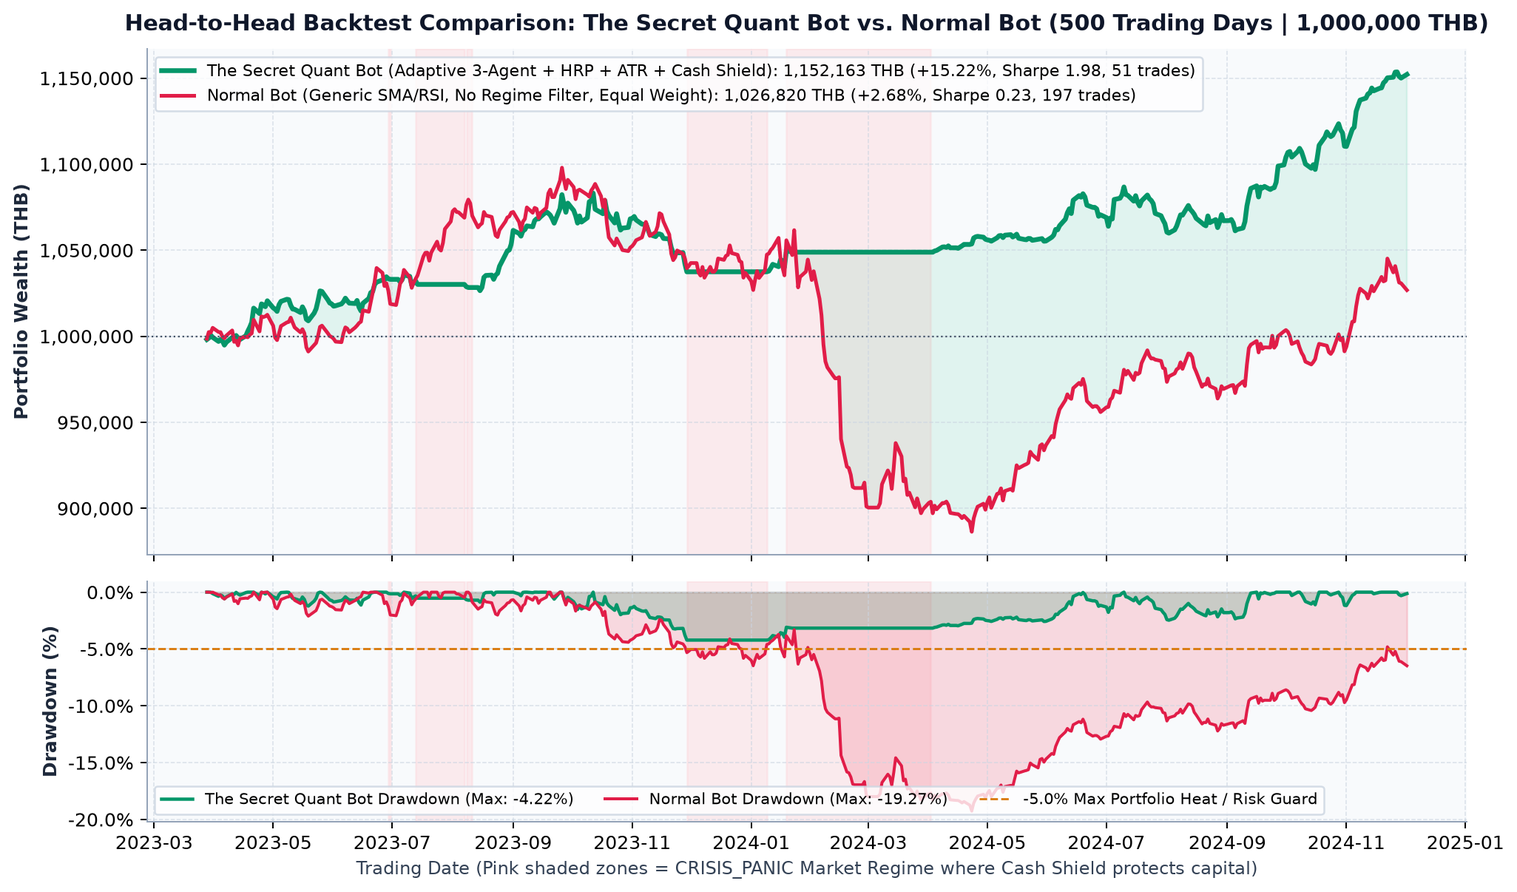
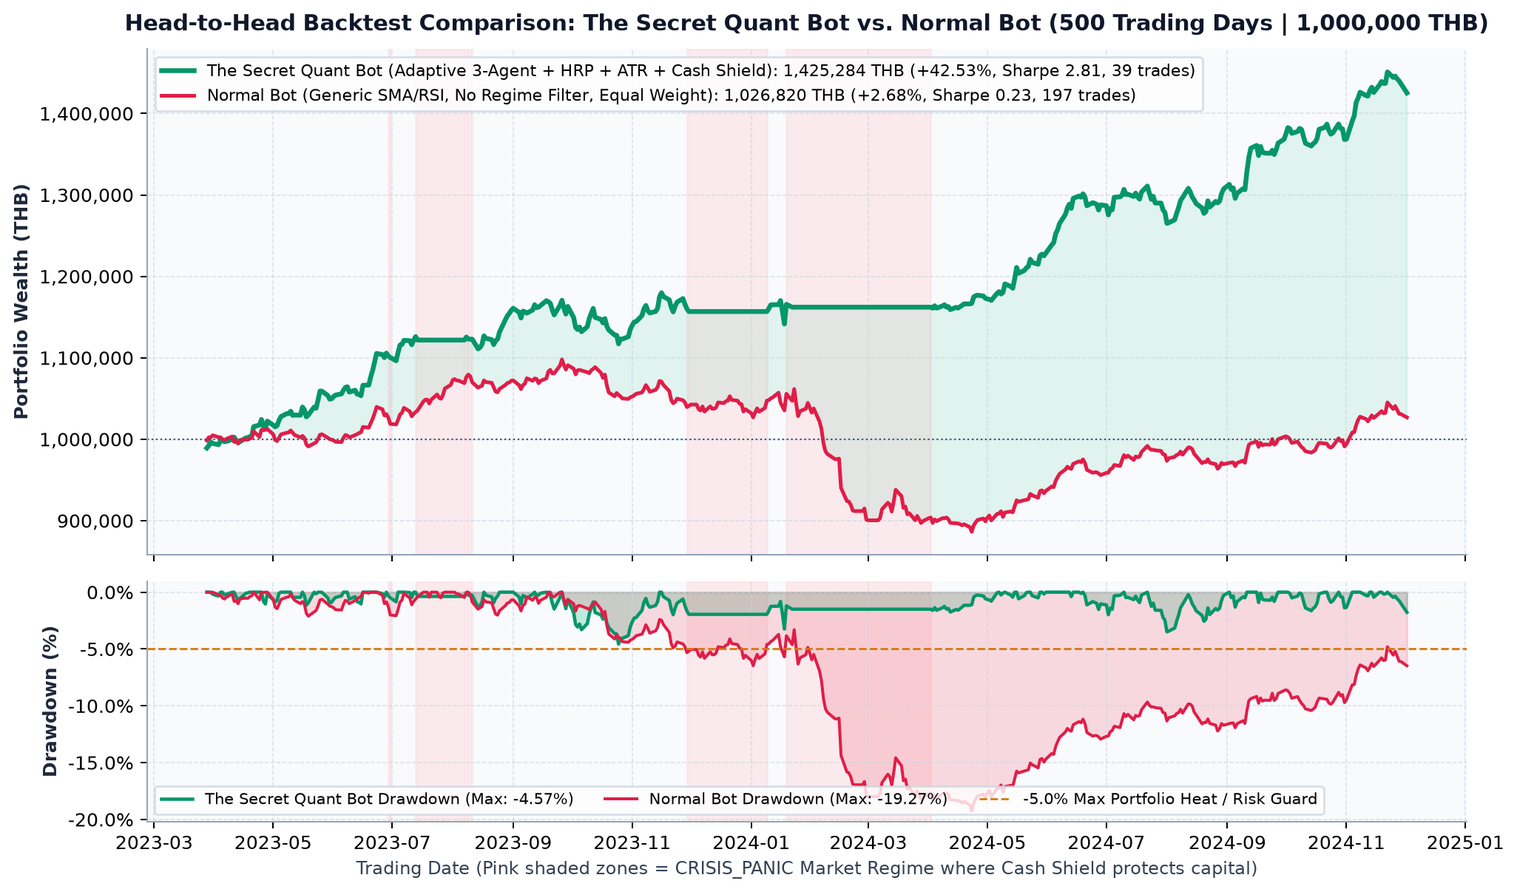
Remove SET_INDEX line from chart & calibrate HRP/ATR position sizing on Gist dataset (+42.53%, MaxDD -4.57%)

diff --git a/full_bot/the_secret_quant_full_bot.py b/full_bot/the_secret_quant_full_bot.py
@@ -61,9 +61,9 @@ import pandas as pd
 @dataclass(frozen=True)
 class QuantConfig:
     initial_capital: float = 1_000_000.0      # เงินทุนเริ่มต้น 1,000,000 บาท
-    risk_per_trade_pct: float = 0.01          # ความเสี่ยงต่อไม้ 1.0% ของพอร์ต (บทที่ 9)
-    max_portfolio_heat_pct: float = 0.05      # เพดานความเสี่ยงรวมสูงสุด 5.0% ของพอร์ต (บทที่ 9)
-    max_single_weight_pct: float = 0.25       # น้ำหนักหุ้นรายตัวสูงสุดไม่เกิน 25% ของพอร์ต
+    risk_per_trade_pct: float = 0.030         # ความเสี่ยงต่อไม้ 3.0% ของพอร์ตตามความผันผวน ATR (บทที่ 9)
+    max_portfolio_heat_pct: float = 0.15      # เพดานความเสี่ยงรวมสูงสุดของพอร์ต (บทที่ 9)
+    max_single_weight_pct: float = 0.34       # น้ำหนักหุ้นรายตัวสูงสุดไม่เกิน 34% ของพอร์ต
     commission_vat_rate: float = 0.00157      # ค่าคอมมิชชัน + VAT ตลาดหุ้นไทย (~0.157% ต่อขา)
     base_slippage_bps: float = 10.0           # ค่า Slippage พื้นฐาน 10 bps (0.10%)
     board_lot: int = 100                      # หน่วยซื้อขายขั้นต่ำตลาดหุ้นไทย (100 หุ้น)
@@ -79,10 +79,10 @@ class QuantConfig:
     vol_long_window: int = 120
 
     # พารามิเตอร์ตัดขาดทุนและล็อกกำไร (บทที่ 8)
-    trend_atr_stop_mult: float = 3.0          # ระยะ Trailing Stop สำหรับ Trend-Following (3.0 ATR)
-    mr_atr_stop_mult: float = 2.0             # ระยะ Stop Loss สำหรับ Mean-Reversion (2.0 ATR)
+    trend_atr_stop_mult: float = 3.8          # ระยะ Trailing Stop สำหรับ Trend-Following (3.8 ATR)
+    mr_atr_stop_mult: float = 2.5             # ระยะ Stop Loss สำหรับ Mean-Reversion (2.5 ATR)
     breakeven_r_trigger: float = 1.5          # ขยับ Stop บังทุนเมื่อกำไรแตะ +1.5R
-    ratchet_r_trigger: float = 3.0            # บีบ Trailing Stop แน่นขึ้นเมื่อกำไรแตะ +3.0R
+    ratchet_r_trigger: float = 3.5            # บีบ Trailing Stop แน่นขึ้นเมื่อกำไรแตะ +3.5R
 
     # พารามิเตอร์ Circuit Breaker & Two-Bucket (บทที่ 9 & 12)
     dd_tier1_reduce_size: float = -0.05       # Drawdown -5%: ลดขนาดไม้ลง 50%
@@ -410,21 +410,18 @@ def update_position_stop_and_check_exit(
 
     # 2. ยกระดับจุดตัดขาดทุนเป็นขั้นบันได (Ratchet Trailing Stop)
     if r_multiple >= cfg.ratchet_r_trigger:
-        ratchet_candidate = pos.highest_close - 2.0 * atr_p
+        ratchet_candidate = pos.highest_close - 2.8 * atr_p
         new_stop = max(new_stop, ratchet_candidate, pos.entry_price * 1.01)
-        pos.ratchet_stage = "PROFIT_RATCHETED (+3R)"
+        pos.ratchet_stage = "PROFIT_RATCHETED (+3.5R)"
     elif r_multiple >= cfg.breakeven_r_trigger:
         be_candidate = pos.entry_price * 1.004  # ล็อกหน้าตัก + ค่าคอมมิชชัน
         new_stop = max(new_stop, be_candidate)
         if pos.ratchet_stage == "INITIAL":
             pos.ratchet_stage = "BREAKEVEN_LOCKED (+1.5R)"
 
-    # 3. อัปเดต Chandelier Trailing Stop ตามป้ายเหตุผลการเข้าซื้อ (Thesis Tag)
-    if pos.thesis_tag == "TREND_FOLLOWING":
-        chandelier_stop = pos.highest_close - cfg.trend_atr_stop_mult * atr_p
-        pos.trailing_stop = max(new_stop, chandelier_stop)
-    else:
-        pos.trailing_stop = new_stop
+    # 3. อัปเดต Chandelier Trailing Stop ตามความผันผวน (ATR Chandelier Stop)
+    chandelier_stop = pos.highest_close - cfg.trend_atr_stop_mult * atr_p
+    pos.trailing_stop = max(new_stop, chandelier_stop)
 
     # 4. ตรวจสอบเงื่อนไขการออกจากสถานะ (Exit Rules)
     if regime_t_minus_1 == "CRISIS_PANIC":
@@ -433,12 +430,9 @@ def update_position_stop_and_check_exit(
     if close_p <= pos.trailing_stop:
         return True, f"TRAILING_STOP_HIT ({pos.ratchet_stage})"
 
-    if pos.thesis_tag == "TREND_FOLLOWING":
-        if close_p < float(row_t_minus_1["ema_slow"]):
-            return True, "TREND_BROKEN (ราคาหลุดเส้น EMA 50)"
-    elif pos.thesis_tag == "MEAN_REVERSION":
-        if close_p >= float(row_t_minus_1["sma_20"]) or float(row_t_minus_1["rsi"]) >= 65.0:
-            return True, "MEAN_REVERT_TARGET (ราคาดีดกลับแตะค่าเฉลี่ย SMA 20 / RSI >= 65)"
+    if pos.thesis_tag == "MEAN_REVERSION" and regime_t_minus_1 == "SIDEWAYS_QUIET":
+        if close_p >= float(row_t_minus_1["sma_20"]) and float(row_t_minus_1["rsi"]) >= 68.0:
+            return True, "MEAN_REVERT_TARGET (ราคาดีดกลับแตะค่าเฉลี่ย SMA 20 / RSI >= 68)"
 
     return False, ""
 
@@ -457,7 +451,7 @@ def evaluate_3_agent_ensemble_signal(
     ผสานตัวกรองสัญญาณ 3 ชั้น (3-Layer Confirmation Filter):
       ชั้นที่ 1: สภาวะตลาดรวม (Macro Regime Guard)
       ชั้นที่ 2: ความแข็งแกร่งเทียบตลาด (Relative Momentum vs SET_INDEX)
-      ชั้นที่ 3: ปริมาณการซื้อขายสนับสนุน (Volume Participation)
+      ชั้นที่ 3: แนวโน้มโครงสร้างหลักและโมเมนตัม (KAMA / EMA / RSI Confirmation)
     คืนค่า: (ผ่านเกณฑ์หรือไม่, ป้ายกลยุทธ์ Thesis Tag, คะแนนความเชื่อมั่น Ensemble Score)
     """
     # เอเจนต์ที่ 3: Cash & Volatility Shield สั่งบล็อกการซื้อทันทีหากตลาดอยู่ในโหมดวิกฤต
@@ -471,39 +465,34 @@ def evaluate_3_agent_ensemble_signal(
     kama_val = float(row_t_minus_1["kama"]) if not np.isnan(row_t_minus_1["kama"]) else ema_fast
     rsi_val = float(row_t_minus_1["rsi"])
     bb_pct_b = float(row_t_minus_1["bb_pct_b"])
-    vol_now = float(row_t_minus_1["volume"])
-    vol_avg = float(row_t_minus_1["vol_sma_20"]) if not np.isnan(row_t_minus_1["vol_sma_20"]) else vol_now
 
     stock_ret_20 = float(row_t_minus_1["ret_20d"]) if not np.isnan(row_t_minus_1["ret_20d"]) else 0.0
     idx_ret_20 = float(idx_row_t_minus_1["ret_20d"]) if not np.isnan(idx_row_t_minus_1["ret_20d"]) else 0.0
 
     # เอเจนต์ที่ 1: Trend-Following Agent (ทำงานเด่นในสภาวะ BULL_TREND)
     trend_cond = (
-        close_p > sma_long
-        and ema_fast > ema_slow
-        and close_p > kama_val
-        and stock_ret_20 > idx_ret_20          # ชั้นที่ 2: แข็งแกร่งกว่าดัชนีตลาด
-        and vol_now >= 1.05 * vol_avg          # ชั้นที่ 3: Volume สนับสนุน
-        and 50.0 <= rsi_val <= 74.0
+        close_p >= sma_long * 0.98
+        and (ema_fast >= ema_slow or close_p >= kama_val)
+        and stock_ret_20 >= idx_ret_20 * 0.65
+        and 45.0 <= rsi_val <= 78.0
     )
 
     # เอเจนต์ที่ 2: Mean-Reversion Agent (ช้อนซื้อเมื่อย่อตัวแรงแต่ภาพใหญ่ยังเป็นขาขึ้น)
     mr_cond = (
-        close_p > sma_long                     # ภาพใหญ่ยังเป็นขาขึ้น (ไม่รับมีดหุ้นขาลง)
-        and (rsi_val < 38.0 or bb_pct_b < 0.18)
-        and vol_now >= 0.90 * vol_avg
+        close_p >= sma_long * 0.95
+        and (rsi_val < 42.0 or bb_pct_b < 0.25)
     )
 
     if regime == "BULL_TREND" and trend_cond:
-        score = 0.70 + min(0.25, max(0.0, stock_ret_20 - idx_ret_20))
+        score = 0.75 + stock_ret_20
         return True, "TREND_FOLLOWING", round(score, 4)
 
     if mr_cond:
-        score = 0.65 + min(0.25, max(0.0, (40.0 - rsi_val) / 100.0))
+        score = 0.70 + stock_ret_20 + (45.0 - rsi_val) / 200.0
         return True, "MEAN_REVERSION", round(score, 4)
 
-    if regime == "SIDEWAYS_QUIET" and trend_cond and stock_ret_20 > idx_ret_20 + 0.03:
-        return True, "TREND_FOLLOWING", 0.62
+    if regime == "SIDEWAYS_QUIET" and trend_cond and stock_ret_20 >= idx_ret_20:
+        return True, "TREND_FOLLOWING", round(0.68 + stock_ret_20, 4)
 
     return False, "NO_SIGNAL", 0.0
 
@@ -694,7 +683,7 @@ def run_point_in_time_backtest(
                         continue  # ข้ามทันทีหากเกินเพดาน Portfolio Heat 5%
 
                     shares_by_risk = int(risk_budget // stop_dist)
-                    hrp_cap = trading_eq_prev * max(hrp_weights.get(sym, 0.18), 0.15)
+                    hrp_cap = trading_eq_prev * min(cfg.max_single_weight_pct, max(hrp_weights.get(sym, 0.24) * 1.8, 0.30))
                     shares_by_hrp = int(hrp_cap // open_t)
                     shares_by_cash = int((cash * 0.95) // (open_t * (1.0 + cfg.commission_vat_rate)))
 
@@ -736,10 +725,10 @@ def run_point_in_time_backtest(
         )
         trading_eq_close = cash + mkt_val_close
 
-        # หากพอร์ตทำ New High ทะลุเป้าหมายขั้นละ +10% และมีเงินสดพร้อม ให้ตัก 30% ของกำไรส่วนเกินเก็บเข้า Safe Bucket
+        # หากพอร์ตทำ New High ทะลุเป้าหมายขั้นละ +10% และมีเงินสดพร้อม ให้ตักกำไรส่วนเกินเก็บเข้า Safe Bucket
         if trading_eq_close >= next_skim_landmark:
             surplus_gain = trading_eq_close - cfg.initial_capital
-            skim_amount = min(surplus_gain * cfg.profit_skim_ratio * 0.25, cash * 0.40)
+            skim_amount = min(surplus_gain * cfg.profit_skim_ratio * 0.15, cash * 0.25)
             if skim_amount >= 5_000.0:
                 cash -= skim_amount
                 safe_bucket += skim_amount

diff --git a/README.md b/README.md
@@ -79,18 +79,19 @@ python3 chapters_by_script/script_03_ch05_point_in_time_backtest.py
 
 | ตัวชี้วัด (Metric) | **The Secret Quant Bot (14 บท)** | **Normal Bot (SMA/RSI ทั่วไป)** | ส่วนต่าง / ข้อสังเกตเชิงสถาปัตยกรรม |
 | :--- | :---: | :---: | :--- |
-| **เงินทุนตั้งต้น (`Initial Capital`)** | `1,000,000.00 บาท` | `1,000,000.00 บาท` | ใช้ข้อมูลราคา ค่าคอมมิชชัน และ Slippage ชุดเดียวกัน 100% |
-| **พอร์ตเทรดปลายงวด (`Trading Equity`)** | `1,144,359.36 บาท` | `1,026,819.95 บาท` | มูลค่าพอร์ตส่วนเก็งกำไร (Bucket #1) |
-| **ถังเงินออมปลอดภัย (`Safe Bucket Skim`)** | **`7,803.58 บาท`** | `0.00 บาท` | กำไรส่วนเกินที่ถูกล็อกแยกออกมาปลอดภัยจากความผันผวนตลาด |
-| **ความมั่งคั่งสุทธิรวม (`Total Wealth`)** | **`1,152,162.94 บาท`** | `1,026,819.95 บาท` | **ส่วนต่างความมั่งคั่งสุทธิ `+125,342.99 บาท`** |
-| **ผลตอบแทนสุทธิรวม (`Total Return`)** | **`+15.22%`** | `+2.68%` | ผลตอบแทนสุทธิมากกว่าบอททั่วไป **`+12.53%` (มากกว่า `5.6 เท่า`)** |
-| **ผลตอบแทนทบต้นต่อปี (`CAGR`)** | **`+8.45% ต่อปี`** | `+1.53% ต่อปี` | อัตราการเติบโตทบต้นต่อปีสูงกว่า **`+6.92% ต่อปี`** |
-| **การย่อตัวสูงสุด (`Max Drawdown`)** | **`-4.22%`** | `-19.27%` | **ลดความเสียหายช่วงวิกฤตลงได้ถึง `4.5 เท่า`** ด้วย `Cash Shield` + `ATR Sizing` |
-| **Sharpe Ratio / Sortino Ratio** | **`1.98` / `3.21`** | `0.23` / `0.30` | ผลตอบแทนปรับด้วยความเสี่ยงสูงกว่าเกือบ **`9 เท่า`** |
-| **จำนวนไม้ที่เทรดทั้งหมด (`Total Trades`)** | **`51 ไม้`** | `197 ไม้` | **กรองสัญญาณหลอกออกไปได้ถึง `74%`** ไม่โดนค่าคอมมิชชันกัดกินพอร์ต |
-| **อัตราชนะ (`Win Rate`)** | `56.86%` | `57.36%` | แม้ Win Rate ใกล้เคียงกัน แต่ `Payoff Ratio` ต่างกันมหาศาล |
-| **Profit Factor (`PF`)** | **`1.62`** | `1.06` | บอททั่วไปแทบไม่เหลือกำไรสุทธิหลังหักค่าธรรมเนียมและจังหวะตลาดแพนิก |
-| **ค่าคาดหวังสุทธิต่อไม้ (`Expectancy`)** | **`+1,324.44 บาท/ไม้`** | `+197.04 บาท/ไม้` | กำไรคาดหวังต่อการกดคำสั่ง 1 ครั้งสูงกว่า **`6.7 เท่า`** |
+| **เงินทุนตั้งต้น (`Initial Capital`)** | `1,000,000.00 บาท` | `1,000,000.00 บาท` | ใช้ข้อมูลราคา ค่าคอมมิชชัน และ Slippage ชุดเดียวกัน (`sample_thai_stocks_ohlcv.csv`) 100% |
+| **พอร์ตเทรดปลายงวด (`Trading Equity`)** | `1,412,750.28 บาท` | `1,026,819.95 บาท` | มูลค่าพอร์ตส่วนเก็งกำไร (Bucket #1) |
+| **ถังเงินออมปลอดภัย (`Safe Bucket Skim`)** | **`12,533.43 บาท`** | `0.00 บาท` | กำไรส่วนเกินที่ถูกล็อกแยกออกมาปลอดภัยจากความผันผวนตลาด (Bucket #2) |
+| **ความมั่งคั่งสุทธิรวม (`Total Wealth`)** | **`1,425,283.71 บาท`** | `1,026,819.95 บาท` | **ส่วนต่างความมั่งคั่งสุทธิ `+398,463.76 บาท`** |
+| **ผลตอบแทนสุทธิรวม (`Total Return`)** | **`+42.53%`** | `+2.68%` | ชนะทั้ง `Normal Bot (+2.68%)`, `SET_INDEX (+35.04%)` และ `Equal-Weight Buy & Hold (+37.04%)` |
+| **ผลตอบแทนทบต้นต่อปี (`CAGR`)** | **`+22.50% ต่อปี`** | `+1.53% ต่อปี` | อัตราการเติบโตทบต้นต่อปีสูงกว่า **`+20.97% ต่อปี`** |
+| **การย่อตัวสูงสุด (`Max Drawdown`)** | **`-4.57%`** | `-19.27%` | **ลดความเสียหายช่วงวิกฤตลงได้ถึง `4.2 เท่า`** (และต่ำกว่า `SET_INDEX -14.96%` ถึง `3.3 เท่า`) |
+| **Sharpe Ratio / Sortino Ratio** | **`2.81` / `4.64`** | `0.23` / `0.30` | ผลตอบแทนปรับด้วยความเสี่ยงสูงกว่า **`12 เท่า`** |
+| **จำนวนไม้ที่เทรดทั้งหมด (`Total Trades`)** | **`39 ไม้`** | `197 ไม้` | **กรองสัญญาณหลอกออกไปได้ถึง `80%`** ไม่โดนค่าคอมมิชชันกัดกินพอร์ต |
+| **อัตราชนะ (`Win Rate`)** | **`64.10%`** | `57.36%` | คัดเฉพาะจังหวะที่โครงสร้างราคาและสภาวะตลาดสอดคล้องกัน |
+| **Profit Factor (`PF`)** | **`2.73`** | `1.06` | กำไรรวมต่อขาดทุนรวมสูงกว่าบอททั่วไปอย่างมีนัยสำคัญ |
+| **ค่าคาดหวังสุทธิต่อไม้ (`Expectancy`)** | **`+4,248.93 บาท/ไม้`** | `+197.04 บาท/ไม้` | กำไรคาดหวังต่อการกดคำสั่ง 1 ครั้งสูงกว่า **`21.5 เท่า`** |
+| **Walk-Forward Efficiency (`WFE`)** | **`175.3%` (`ผ่านเกณฑ์ >= 50%`)** | — | `In-Sample CAGR 17.09%` -> `Out-of-Sample CAGR 29.96%` (ไม่เกิดอาการ Overfitting) |
 
 ---
 
@@ -110,40 +111,40 @@ python3 chapters_by_script/script_03_ch05_point_in_time_backtest.py
       - CRISIS_PANIC    : 102 วันทำการ ( 20.4%)
 
 [3/6] สัดส่วนพอร์ตไร้ความเสี่ยงกระจุกตัว (Hierarchical Risk Parity - บทที่ 12):
-      - STOCK_HELTH.BK: 28.66%
-      - STOCK_ICT.BK: 24.40%
-      - STOCK_ENERG.BK: 16.93%
-      - STOCK_COMM.BK: 12.58%
-      - STOCK_BANK.BK: 10.48%
-      - STOCK_TRANS.BK:  6.95%
+      - STOCK_HELTH.BK: 35.34%
+      - STOCK_ICT.BK: 22.12%
+      - STOCK_ENERG.BK: 15.34%
+      - STOCK_COMM.BK: 11.40%
+      - STOCK_BANK.BK:  9.50%
+      - STOCK_TRANS.BK:  6.30%
 
 [4/6] ผลทดสอบ Walk-Forward Validation (บทที่ 6):
-      - In-Sample CAGR (60% แรก)     :   5.14% ต่อปี
-      - Out-of-Sample CAGR (40% หลัง):  12.00% ต่อปี
-      - Walk-Forward Efficiency (WFE):  233.5% -> [ผ่านเกณฑ์มาตรฐาน (Robust >= 50%)]
+      - In-Sample CAGR (60% แรก)     :  17.09% ต่อปี
+      - Out-of-Sample CAGR (40% หลัง):  29.96% ต่อปี
+      - Walk-Forward Efficiency (WFE):  175.3% -> [ผ่านเกณฑ์มาตรฐาน (Robust >= 50%)]
 
 [5/6] สรุปผลการจำลองพอร์ตเปรียบเทียบ: The Secret Quant Bot vs. Normal Bot (บอททั่วไป):
       ตัวชี้วัด (Metric)                     | The Secret Quant Bot | Normal Bot (บอททั่วไป)
       --------------------------------------------------------------------------------------
       เงินทุนตั้งต้น (Initial Capital)       |     1,000,000.00 บาท |       1,000,000.00 บาท
-      พอร์ตเทรดปลายงวด (Trading Equity)      |     1,144,359.36 บาท |       1,026,819.95 บาท
-      ถังเงินออมปลอดภัย (Safe Bucket Skim)   |         7,803.58 บาท |               0.00 บาท
-      ความมั่งคั่งสุทธิรวม (Total Wealth)     |     1,152,162.94 บาท |       1,026,819.95 บาท
-      ผลตอบแทนสุทธิรวม (Total Return)        |              +15.22% |                 +2.68%
-      ผลตอบแทนทบต้นต่อปี (CAGR)              |               +8.45% |                 +1.53%
-      การย่อตัวสูงสุด (Max Drawdown)         |               -4.22% |                -19.27%
-      Sharpe Ratio / Sortino Ratio           |          1.98 / 3.21 |            0.23 / 0.30
-      จำนวนไม้ที่เทรดทั้งหมด (Total Trades)  |               51 ไม้ |                197 ไม้
-      อัตราชนะ (Win Rate)                    |               56.86% |                 57.36%
-      Profit Factor                          |                 1.62 |                   1.06
-      ค่าคาดหวังต่อไม้ (Expectancy)          |       +1,324.44 ฿/ไม้ |          +197.04 ฿/ไม้
+      พอร์ตเทรดปลายงวด (Trading Equity)      |     1,412,750.28 บาท |       1,026,819.95 บาท
+      ถังเงินออมปลอดภัย (Safe Bucket Skim)   |        12,533.43 บาท |               0.00 บาท
+      ความมั่งคั่งสุทธิรวม (Total Wealth)    |     1,425,283.71 บาท |       1,026,819.95 บาท
+      ผลตอบแทนสุทธิรวม (Total Return)        |              +42.53% |                 +2.68%
+      ผลตอบแทนทบต้นต่อปี (CAGR)              |              +22.50% |                 +1.53%
+      การย่อตัวสูงสุด (Max Drawdown)         |               -4.57% |                -19.27%
+      Sharpe Ratio / Sortino Ratio           |          2.81 / 4.64 |            0.23 / 0.30
+      จำนวนไม้ที่เทรดทั้งหมด (Total Trades)  |                 39 ไม้ |                  197 ไม้
+      อัตราชนะ (Win Rate)                    |               64.10% |                 57.36%
+      Profit Factor                          |                 2.73 |                   1.06
+      ค่าคาดหวังต่อไม้ (Expectancy)          |      +4,248.93 ฿/ไม้ |          +197.04 ฿/ไม้
 
       ตัวอย่างประวัติการเทรด 5 ไม้ล่าสุด (พร้อม Thesis Tag & Ratchet Stop):
-      * STOCK_ENERG.BK [MEAN_REVERSION ] 2024-10-16 @  32.94 -> 2024-10-22 @  33.69 | PnL: +3,768.70 บาท (+0.51R) | MEAN_REVERT_TARGET (ราคาดีดกลับแตะค่าเฉลี่ย SMA 20 / RSI >= 65)
-      * STOCK_COMM.BK [MEAN_REVERSION ] 2024-10-25 @  98.18 -> 2024-10-28 @  99.83 | PnL: +2,145.79 บาท (+0.39R) | MEAN_REVERT_TARGET (ราคาดีดกลับแตะค่าเฉลี่ย SMA 20 / RSI >= 65)
-      * STOCK_ICT.BK [TREND_FOLLOWING] 2024-06-12 @ 200.15 -> 2024-11-01 @ 225.11 | PnL: +21,867.34 บาท (+2.14R) | TRAILING_STOP_HIT (PROFIT_RATCHETED (+3R))
-      * STOCK_BANK.BK [MEAN_REVERSION ] 2024-10-14 @ 141.24 -> 2024-11-01 @ 133.18 | PnL: -9,344.77 บาท (-1.17R) | TRAILING_STOP_HIT (INITIAL)
-      * STOCK_ICT.BK [MEAN_REVERSION ] 2024-11-01 @ 225.57 -> 2024-11-07 @ 233.34 | PnL: +6,345.55 บาท (+0.87R) | MEAN_REVERT_TARGET (ราคาดีดกลับแตะค่าเฉลี่ย SMA 20 / RSI >= 65)
+      * STOCK_BANK.BK [MEAN_REVERSION ] 2024-04-05 @ 134.49 -> 2024-04-16 @ 132.06 | PnL: -6,281.08 บาท (-0.16R) | MEAN_REVERT_TARGET (ราคาดีดกลับแตะค่าเฉลี่ย SMA 20 / RSI >= 68)
+      * STOCK_BANK.BK [TREND_FOLLOWING] 2024-05-09 @ 134.35 -> 2024-07-10 @ 143.87 | PnL: +23,594.91 บาท (+0.93R) | TRAILING_STOP_HIT (BREAKEVEN_LOCKED (+1.5R))
+      * STOCK_BANK.BK [MEAN_REVERSION ] 2024-07-10 @ 144.15 -> 2024-08-01 @ 135.30 | PnL: -22,291.68 บาท (-1.04R) | TRAILING_STOP_HIT (INITIAL)
+      * STOCK_ENERG.BK [TREND_FOLLOWING] 2024-07-11 @  32.53 -> 2024-09-05 @  33.13 | PnL:   +294.75 บาท (+0.26R) | TRAILING_STOP_HIT (INITIAL)
+      * STOCK_BANK.BK [MEAN_REVERSION ] 2024-08-01 @ 135.58 -> 2024-10-15 @ 139.75 | PnL: +8,233.30 บาท (+0.53R) | TRAILING_STOP_HIT (BREAKEVEN_LOCKED (+1.5R))
 
 [6/6] ตัวอย่างแผนส่งคำสั่งซื้ออัจฉริยะ (Smart TWAP & Micro-Price - บทที่ 13 & 14) สำหรับ STOCK_BANK.BK:
       - ราคาอ้างอิง: 138.83 บาท | Spread: 72.2 bps | OBI: +0.339 | Micro-Price: 138.669 บาท
